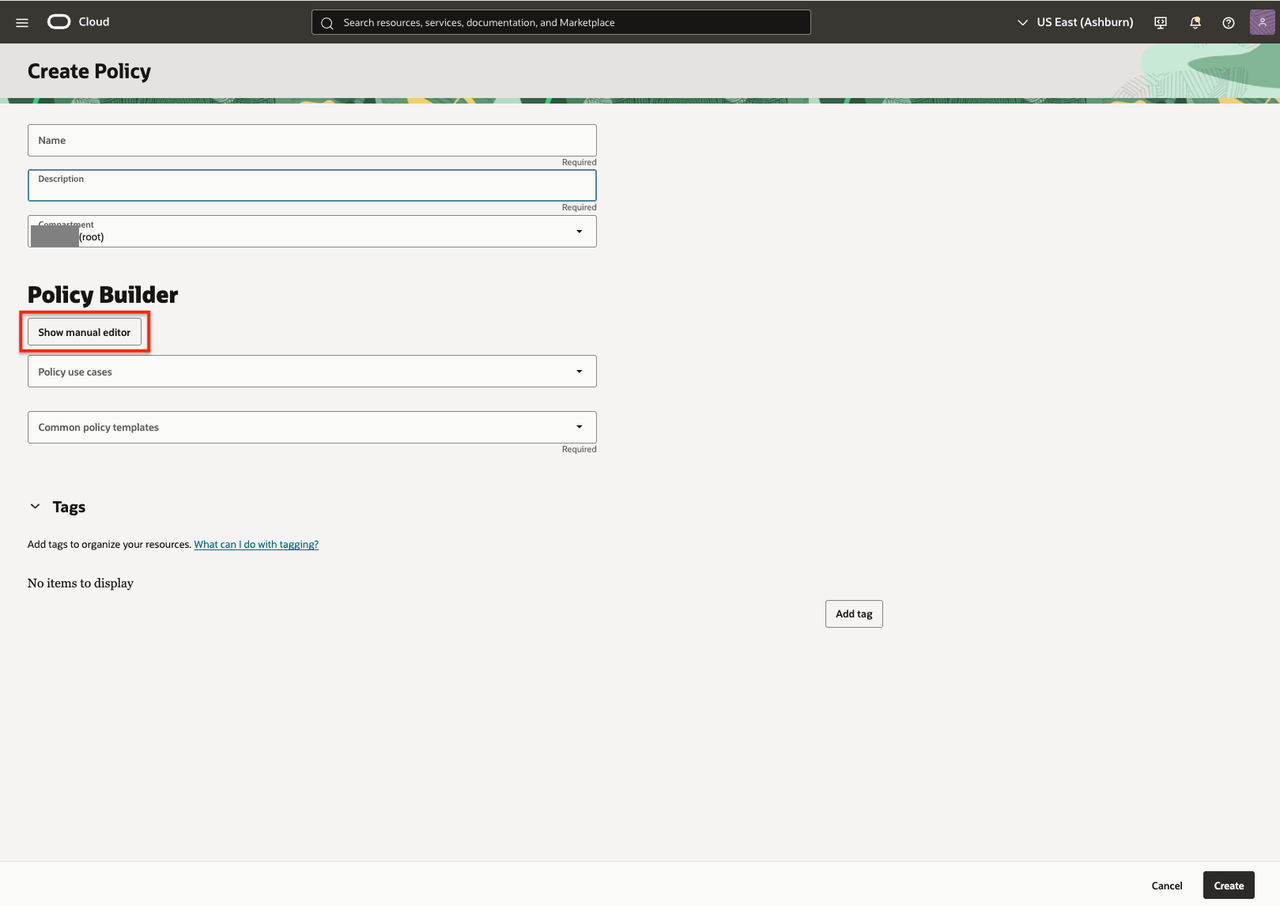
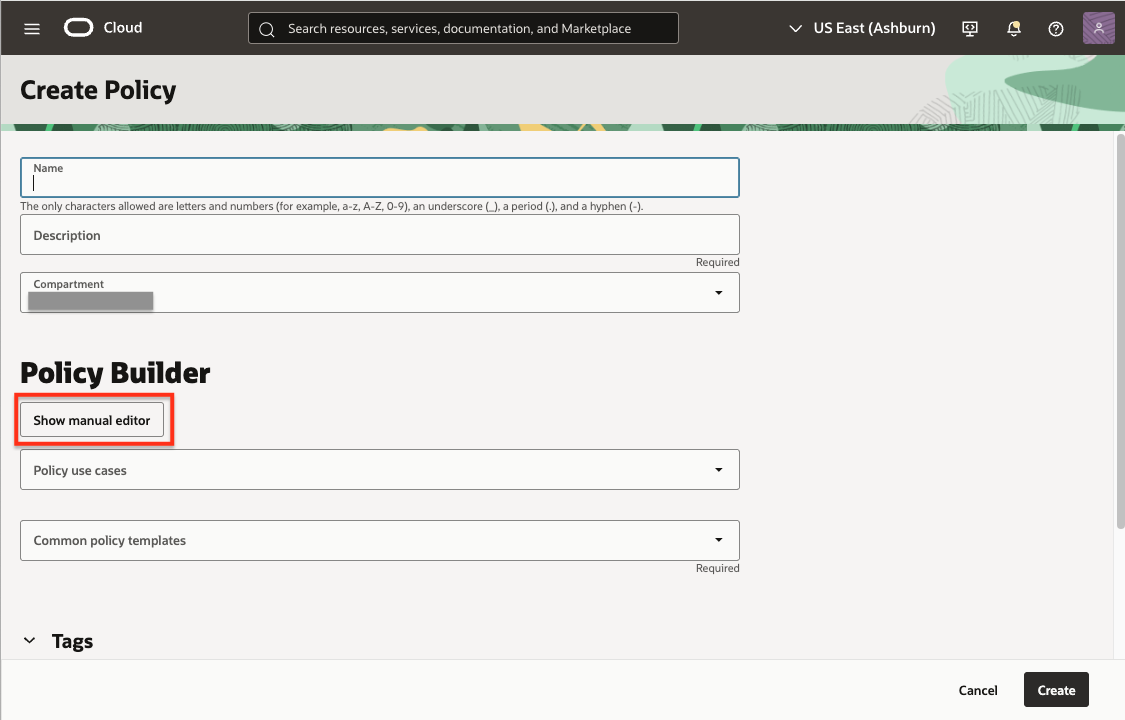
AJ-28011 use url for oac template
- Use url for oac template
- Remove unused image
- Fix checklist

diff --git a/java-management-oac-integration/jms-data-export-to-autonomous-ai-database/jms-data-export-to-autonomous-ai-database.md b/java-management-oac-integration/jms-data-export-to-autonomous-ai-database/jms-data-export-to-autonomous-ai-database.md
@@ -54,7 +54,7 @@ In this lab, you will configure Java Management Service (JMS) on Oracle Cloud In
      * **Graph**: checked if you want graph features
      * **OML**: for Oracle Machine Learning
      * **REST, GraphQL, MongoDB API, Web access**: check as needed
-     ![User details example](./images/create-database-user-details.png)
+   ![User details example](./images/create-database-user-details.png)
 4. Click **Create User**.
    ![User details save](./images/create-database-user-details-save.png)
 5. Confirm your user appears in the **User Management** listing.
@@ -91,9 +91,8 @@ In this lab, you will configure Java Management Service (JMS) on Oracle Cloud In
     * **Name**: Type a concise, memorable policy name (e.g., `jms_export`)
     * **Description**: Clearly state the policy's intent, such as:  `Policy required for JMS Fleets to export data to object storage`
     * **Compartment**: Pick the same compartment where your database and export bucket reside
-    ![Enter Policy Info](../common/images/create-policy-step1.png)
 3. Click **Show Manual Editor**.
-   ![Show Manual Editor screen](../common/images/create-policy-step1.png)
+   ![Enter Policy Info](../common/images/create-policy-step1.png)
 4. Copy and paste the following policy (edit placeholders accordingly):
 
    ```text
@@ -103,7 +102,6 @@ In this lab, you will configure Java Management Service (JMS) on Oracle Cloud In
     ```
    > Replace `[compartment_name]` which the compartment name where is the bucket where configure the JMS data exports and `[ocid_autonomous_ai_database]` with the ocid of the autonomous AI database previously created.
 
-   ![Policy Details](./images/create-policy-details.png)
 5. Click **Create**.
    ![Policy Details](./images/create-policy-details-save.png)
 

diff --git a/java-management-oac-integration/import-jms-oac-template/import-jms-oac-template.md b/java-management-oac-integration/import-jms-oac-template/import-jms-oac-template.md
@@ -31,7 +31,7 @@ In this lab, you will connect to your Oracle Analytics Cloud (OAC) environment a
 
 You must download the JMS Data Viewer OAC template to your local computer.
 
-[Download JMS Data Viewer](../common/files/jms_data_viewer.dva)
+[Download JMS Data Viewer](https://c4u04.objectstorage.us-ashburn-1.oci.customer-oci.com/p/EcTjWk2IuZPZeNnD_fYMcgUhdNDIDA6rt9gaFj_WZMiL7VvxPBNMY60837hu5hga/n/c4u04/b/livelabsfiles/o/labfiles/jms_data_viewer.dva)
 
 The JMS Data Viewer (.dva) file provides pre-built dashboards for visualizing Java Management Service data in Oracle Analytics Cloud. Save it in an accessible location to use in the next step.
 

diff --git a/java-management-oac-integration/schedule-jms-export/schedule-jms-export.md b/java-management-oac-integration/schedule-jms-export/schedule-jms-export.md
@@ -22,7 +22,7 @@ In this lab, you will schedule the Java Management Service (JMS) export process 
 1. On the OAC home page, click page menu in the upper left side.
 2. Select **Data**.
    ![Import template menu](../common/images/analytics-cloud-config-data-connection.png)
-3. Over the imported connection, on the right side, click actions menu and click **New Schedule**.
+3. Over the imported dataset, on the right side, click actions menu and click **New Schedule**.
    ![Select Autonomous AI Database Connection](./images/analytics-cloud-data-connection-new-schedule.png)
 4. Specify schedule details to run dataset:
    * **Name**

diff --git a/java-management-oac-integration/connect-oac-to-atp/connect-oac-to-atp.md b/java-management-oac-integration/connect-oac-to-atp/connect-oac-to-atp.md
@@ -66,7 +66,7 @@ In this lab, you will configure Oracle Analytics Cloud (OAC) to connect to your 
 6. On the left panel click **History**. The Status could be **In Queue** or **Running**. 
    ![Dataset close reload_data](images/analytics-cloud-dataset-reload-data-inqueue.png)
 7. Wait until the execution ends and the status is **Completed**.
-   ![Dataset close reload_data](images/analytics-cloud-dataset-reload-data-completed.png)
+   ![Dataset close reload_data](images/analytics-cloud-dataset-reload-data-complete.png)
 
 ## Next Steps
 

diff --git a/java-management-oac-integration/introduction/introduction.md b/java-management-oac-integration/introduction/introduction.md
@@ -16,7 +16,7 @@ This workshop is a follow up workshop to the [Manage Java Runtimes, Applications
 
 This workshop guides you through connecting JMS to Oracle Analytics Cloud, exporting Java inventory and usage data, and building real-time dashboards with data from multiple regions.
 
-*Estimated Time*: 90 minutes
+*Estimated Workshop Time:* 90 minutes
 
 ### Objectives
 
